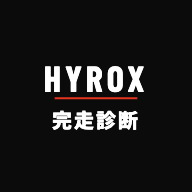
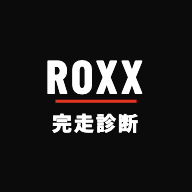
feat: サービス名をROXXにし、非公式である旨を明示
公式運営との誤認を避けるため、擬似的な組織名だった「HYROX JAPAN」表記を
やめ、サービス名 ROXX を前面に出す。アイコン・OGP画像もHYROXのワードマーク
からROXXに差し替え。トップと法務3ページのフッターに、HYROXおよび
Upsolut Sports GmbHとは無関係である旨を明記。
HYROXへの言及は「何のための診断か」を説明する記述用途に限定する。

Changed region(s): [[0.2188, 0.3125, 0.75, 0.7188]]

diff --git a/index.html b/index.html
@@ -3,7 +3,7 @@
 <head>
 <meta charset="utf-8">
 <meta name="viewport" content="width=device-width, initial-scale=1, viewport-fit=cover">
-<title>HYROX 完走診断</title>
+<title>ROXX — HYROX完走診断</title>
 <meta name="description" content="8つの質問で、予測完走タイム・本番で止まる箇所・必要な準備週数が出る。HYROX未経験者のための完走診断。">
 <link rel="canonical" href="https://zono062.github.io/hyrox-shindan/">
 
@@ -19,8 +19,8 @@
 
 <!-- OGP -->
 <meta property="og:type" content="website">
-<meta property="og:site_name" content="HYROX完走診断">
-<meta property="og:title" content="HYROX完走診断 — 出られるかどうかを、先に確かめる。">
+<meta property="og:site_name" content="ROXX">
+<meta property="og:title" content="ROXX — 出られるかどうかを、先に確かめる。">
 <meta property="og:description" content="8つの質問で、予測完走タイム・本番で止まる箇所・必要な準備週数が出る。所要30秒・無料。">
 <meta property="og:url" content="https://zono062.github.io/hyrox-shindan/">
 <meta property="og:image" content="https://zono062.github.io/hyrox-shindan/ogp.png">
@@ -28,7 +28,7 @@
 <meta property="og:image:height" content="630">
 <meta property="og:locale" content="ja_JP">
 <meta name="twitter:card" content="summary_large_image">
-<meta name="twitter:title" content="HYROX完走診断 — 出られるかどうかを、先に確かめる。">
+<meta name="twitter:title" content="ROXX — 出られるかどうかを、先に確かめる。">
 <meta name="twitter:description" content="8つの質問で、予測完走タイム・本番で止まる箇所・必要な準備週数が出る。所要30秒・無料。">
 <meta name="twitter:image" content="https://zono062.github.io/hyrox-shindan/ogp.png">
 <link rel="preconnect" href="https://fonts.googleapis.com">
@@ -304,7 +304,7 @@ body{
 <!-- INTRO -->
 <section class="screen on" id="s-intro">
   <div class="hero">
-    <div class="mark">Hyrox Japan / 完走診断</div>
+    <div class="mark">ROXX / 完走診断</div>
     <h1>出られるかどうかを、<br>先に確かめる。</h1>
     <p>8つの質問に答えると、あなたの予測完走タイムと、本番で止まる箇所、そして間に合うかどうかが出ます。所要30秒。</p>
     <div class="spec">
@@ -392,7 +392,7 @@ body{
   <a href="./legal/tokushoho.html">特定商取引法に基づく表記</a>
   <a href="./legal/privacy.html">プライバシーポリシー</a>
   <a href="./legal/terms.html">利用規約</a>
-  <small>&copy; HYROX完走診断</small>
+  <small>&copy; ROXX ／ 本サービスは HYROX&reg; および Upsolut Sports GmbH とは一切関係のない非公式サービスです。HYROX は同社の登録商標です。</small>
 </footer>
 
 </div>

diff --git a/legal/terms.html b/legal/terms.html
@@ -3,7 +3,7 @@
 <head>
 <meta charset="utf-8">
 <meta name="viewport" content="width=device-width, initial-scale=1, viewport-fit=cover">
-<title>利用規約 — HYROX完走診断</title>
+<title>利用規約 — ROXX</title>
 <meta name="theme-color" content="#0B0B0B">
 <link rel="preconnect" href="https://fonts.googleapis.com">
 <link rel="preconnect" href="https://fonts.gstatic.com" crossorigin>
@@ -12,7 +12,7 @@
 </head>
 <body>
 <main>
-<span class="mark">Hyrox Japan / 完走診断</span>
+<span class="mark">ROXX / 完走診断</span>
 <h1>利用規約</h1>
 <p>本利用規約（以下「本規約」）は、HYROX完走診断（以下「本サービス」）の利用条件を定めるものです。利用者は、本サービスを利用することにより本規約に同意したものとみなされます。</p>
 
@@ -61,6 +61,7 @@
 <h2>第10条（準拠法・管轄）</h2>
 <p>本規約は日本法に準拠します。本サービスに関して紛争が生じた場合、運営者の所在地を管轄する地方裁判所を第一審の専属的合意管轄裁判所とします。</p>
 <p class="upd">最終更新：2026年8月29日</p>
+<p class="upd">本サービスは HYROX&reg; および Upsolut Sports GmbH とは一切関係のない非公式サービスです。HYROX は同社の登録商標です。</p>
 <a class="back" href="../index.html">← 診断に戻る</a>
 </main>
 </body>

diff --git a/legal/privacy.html b/legal/privacy.html
@@ -3,7 +3,7 @@
 <head>
 <meta charset="utf-8">
 <meta name="viewport" content="width=device-width, initial-scale=1, viewport-fit=cover">
-<title>プライバシーポリシー — HYROX完走診断</title>
+<title>プライバシーポリシー — ROXX</title>
 <meta name="theme-color" content="#0B0B0B">
 <link rel="preconnect" href="https://fonts.googleapis.com">
 <link rel="preconnect" href="https://fonts.gstatic.com" crossorigin>
@@ -12,7 +12,7 @@
 </head>
 <body>
 <main>
-<span class="mark">Hyrox Japan / 完走診断</span>
+<span class="mark">ROXX / 完走診断</span>
 <h1>プライバシーポリシー</h1>
 <p>HYROX完走診断（以下「本サービス」）は、利用者の情報を以下のとおり取り扱います。</p>
 
@@ -47,6 +47,7 @@
 <h2>7. 改定</h2>
 <p>本ポリシーの内容は、法令の変更やサービス内容の変更に応じて改定することがあります。改定後の内容は本ページに掲載した時点から効力を生じます。</p>
 <p class="upd">最終更新：2026年8月29日</p>
+<p class="upd">本サービスは HYROX&reg; および Upsolut Sports GmbH とは一切関係のない非公式サービスです。HYROX は同社の登録商標です。</p>
 <a class="back" href="../index.html">← 診断に戻る</a>
 </main>
 </body>

diff --git a/legal/tokushoho.html b/legal/tokushoho.html
@@ -3,7 +3,7 @@
 <head>
 <meta charset="utf-8">
 <meta name="viewport" content="width=device-width, initial-scale=1, viewport-fit=cover">
-<title>特定商取引法に基づく表記 — HYROX完走診断</title>
+<title>特定商取引法に基づく表記 — ROXX</title>
 <meta name="theme-color" content="#0B0B0B">
 <link rel="preconnect" href="https://fonts.googleapis.com">
 <link rel="preconnect" href="https://fonts.gstatic.com" crossorigin>
@@ -12,7 +12,7 @@
 </head>
 <body>
 <main>
-<span class="mark">Hyrox Japan / 完走診断</span>
+<span class="mark">ROXX / 完走診断</span>
 <h1>特定商取引法に基づく表記</h1>
 <dl>
 <dt>販売事業者</dt><dd>水野 勇</dd>
@@ -31,6 +31,7 @@
 <dt>動作環境</dt><dd>最新のWebブラウザ（iOS Safari / Android Chrome / PC各種）。JavaScriptおよびローカルストレージが有効である必要があります。</dd>
 </dl>
 <p class="upd">最終更新：2026年8月29日</p>
+<p class="upd">本サービスは HYROX&reg; および Upsolut Sports GmbH とは一切関係のない非公式サービスです。HYROX は同社の登録商標です。</p>
 <a class="back" href="../index.html">← 診断に戻る</a>
 </main>
 </body>

diff --git a/sw.js b/sw.js
@@ -1,6 +1,6 @@
 /* 最小のservice worker：ネットワーク優先＋キャッシュ退避。
    オフライン対応は目的ではなく、ホーム画面起動の要件を満たすためのもの。 */
-const C = "hx-v2";
+const C = "hx-v3";
 const ASSETS = [
   "./", "./index.html", "./manifest.json",
   "./icon-192.png", "./icon-512.png",

diff --git a/README.md b/README.md
@@ -1,6 +1,7 @@
-# HYROX完走診断
+# ROXX — HYROX完走診断
 
-HYROX未経験者向けの完走診断Webアプリ。8項目の入力から、予測完走タイム・弱点2種目・
+HYROX未経験者向けの完走診断Webアプリ。
+本サービスは HYROX および Upsolut Sports GmbH とは関係のない非公式サービス。8項目の入力から、予測完走タイム・弱点2種目・
 必要準備週数・トレーニングメニューを生成する。
 
 ## 構成
